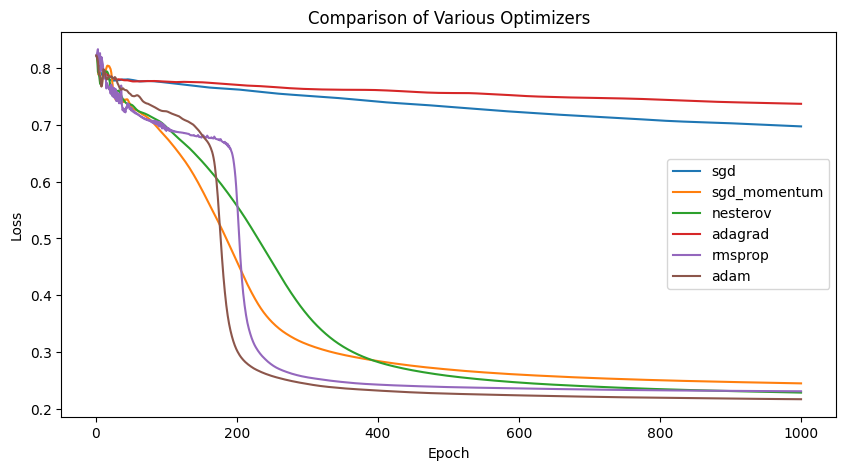
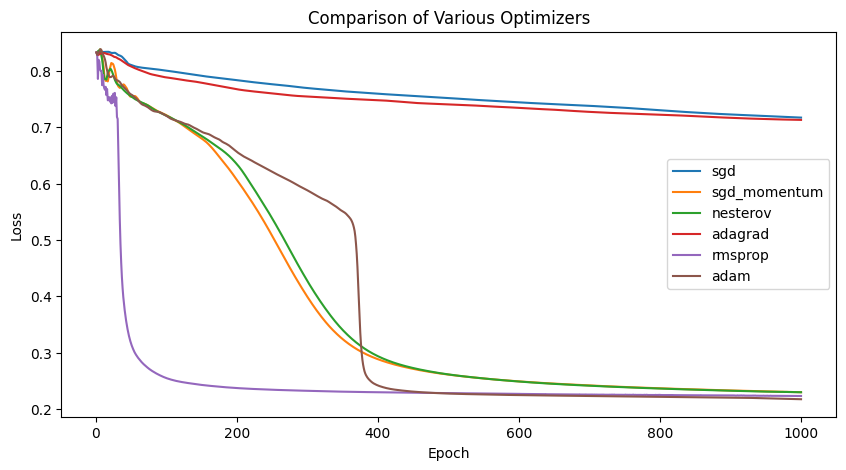
modified adam code, added bias correction part

diff --git a/optimizers/README.md b/optimizers/README.md
@@ -153,7 +153,8 @@ W2 -= lr * dL_by_dW2 / (np.sqrt(optim["cache_dw2"]) + eps)
 
 #### Adam
 
-An advanced optimizer combining Momentum and RMSProp. Has shown better convergence in practice.
+An advanced optimizer combining Momentum and RMSProp. It also uses bias correction, because the `m` and `v` are biased towards 0 (since they are initialised with 0) during the early stages of training. Has shown better convergence in practice.
+
 
 ```python
 optim = {
@@ -166,14 +167,20 @@ optim = {
     "b2": 0.99
 }
 
-optim["m_dw1"] = optim["b1"] * optim["m_dw1"] + (1 - optim["b1"]) * dL_by_dW1
-optim["m_dw2"] = optim["b1"] * optim["m_dw2"] + (1 - optim["b1"]) * dL_by_dW2
+optim["m_dw1"] = optim["b1"]*optim["m_dw1"] + (1-optim["b1"])*dL_by_dW1
+m_dw1_hat = optim["m_dw1"] / (1 - optim["b1"]**i)
 
-optim["v_dw1"] = optim["b2"] * optim["v_dw1"] + (1 - optim["b2"]) * dL_by_dW1**2
-optim["v_dw2"] = optim["b2"] * optim["v_dw2"] + (1 - optim["b2"]) * dL_by_dW2**2
+optim["m_dw2"] = optim["b1"]*optim["m_dw2"] + (1-optim["b1"])*dL_by_dW2
+m_dw2_hat = optim["m_dw2"] / (1 - optim["b1"]**i)
 
-W1 -= lr * optim["m_dw1"] / (np.sqrt(optim["v_dw1"]) + eps)
-W2 -= lr * optim["m_dw2"] / (np.sqrt(optim["v_dw2"]) + eps)
+optim["v_dw1"] = optim["b2"]*optim["v_dw1"] + (1-optim["b2"])*dL_by_dW1**2
+v_dw1_hat = optim["v_dw1"] / (1 - optim["b2"]**i)
+
+optim["v_dw2"] = optim["b2"]*optim["v_dw2"] + (1-optim["b2"])*dL_by_dW2**2
+v_dw2_hat = optim["v_dw2"] / (1 - optim["b2"]**i)
+
+W1 -= lr*m_dw1_hat / (np.sqrt(v_dw1_hat) + eps)
+W2 -= lr*m_dw2_hat / (np.sqrt(v_dw2_hat) + eps)
 ```
 
 ---
@@ -182,6 +189,6 @@ W2 -= lr * optim["m_dw2"] / (np.sqrt(optim["v_dw2"]) + eps)
 
 ![Comparison](./images/comparison.png)
 
-* **Adam** converges faster than all other optimizers.
+* **RMSProp** and **Adam** converges faster than rest of the optimizers.
 * **Adagrad** and **Vanilla SGD** struggled to converge and got stuck.
-* After Adam, **RMSProp** performed best, followed by **Nesterov** and **SGD with Momentum**.
+* Usually Adam outperforms RMRProp, but since the data and model are small here, we see that RMSProp is converging better than Adam
